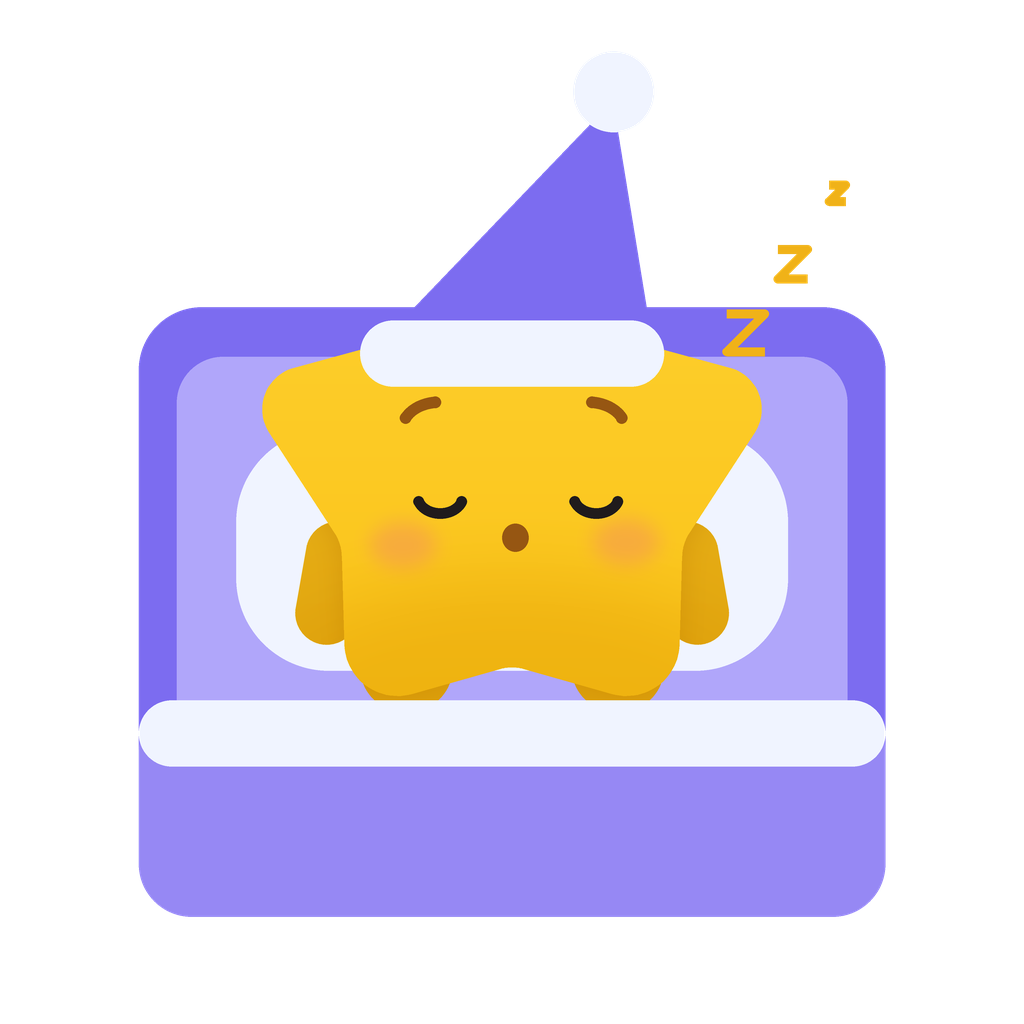
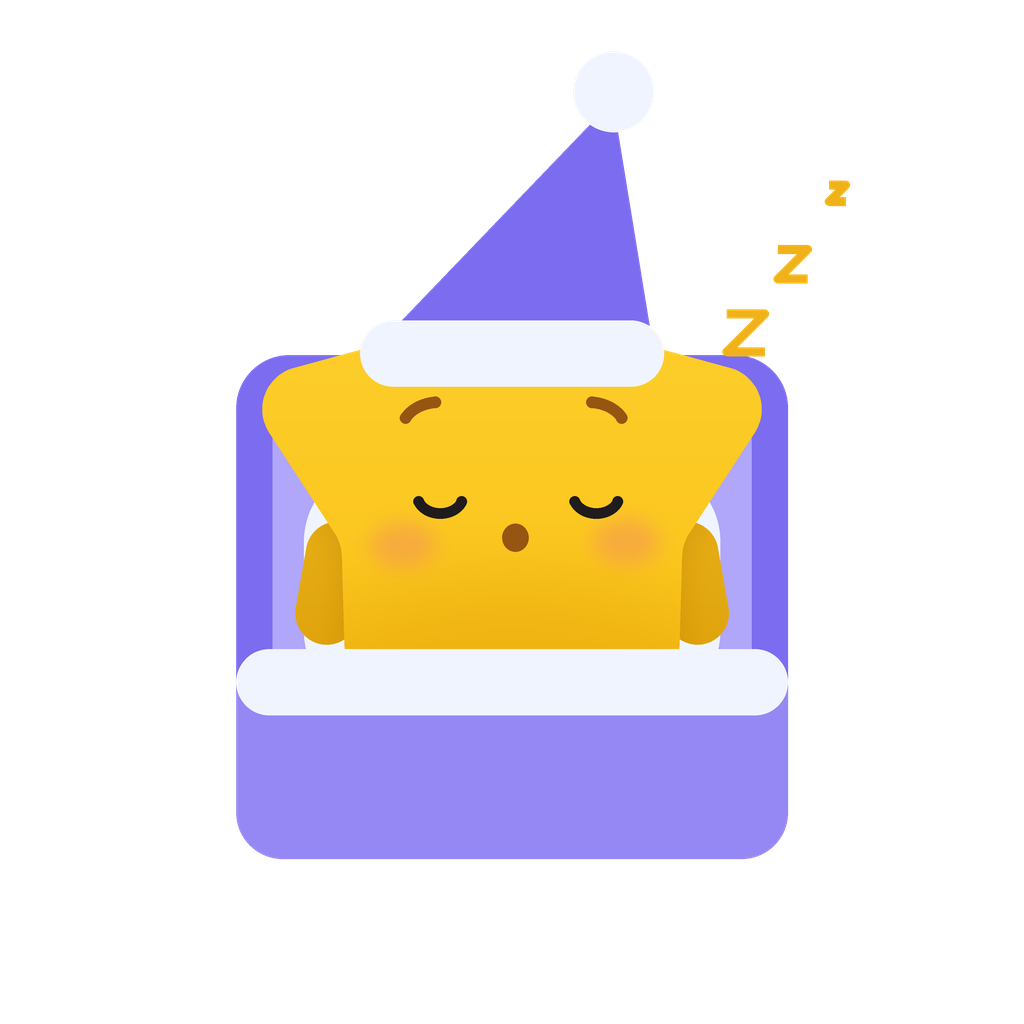
Restore the smaller bed and raise the meditation arms
The widened bed dwarfed the character, so it goes back to the earlier
compact headboard and blanket. Meditation now uses the same raised arm
position as the wave — both sides, without the motion arcs.

Claude-Session: https://claude.ai/code/session_015M4W5mwAC7ThVprora4HqH

Changed region(s): [[0.125, 0.2812, 0.875, 0.9062]]

diff --git a/scenes.py b/scenes.py
@@ -193,11 +193,11 @@ def mat(img):
 def bed(img):
     """Изголовье кровати и подушка за спиной."""
     lay, d = layer(img)
-    d.rounded_rectangle(sbox([168, 372, 1072, 1064]), radius=s(76),
+    d.rounded_rectangle(sbox([286, 430, 954, 1010]), radius=s(64),
                         fill=ACCENT + (255,))
-    d.rounded_rectangle(sbox([214, 432, 1026, 1012]), radius=s(56),
+    d.rounded_rectangle(sbox([330, 486, 910, 966]), radius=s(48),
                         fill=RING + (255,))
-    d.rounded_rectangle(sbox([286, 520, 954, 812]), radius=s(112),
+    d.rounded_rectangle(sbox([368, 560, 872, 860]), radius=s(96),
                         fill=CLOUD + (255,))
     img.alpha_composite(lay)
 
@@ -205,9 +205,9 @@ def bed(img):
 def blanket(img):
     """Одеяло поверх нижней части тела."""
     lay, d = layer(img)
-    d.rounded_rectangle(sbox([168, 848, 1072, 1110]), radius=s(64),
+    d.rounded_rectangle(sbox([286, 786, 954, 1040]), radius=s(56),
                         fill=(150, 136, 244, 255))
-    d.rounded_rectangle(sbox([168, 848, 1072, 928]), radius=s(44),
+    d.rounded_rectangle(sbox([286, 786, 954, 866]), radius=s(40),
                         fill=CLOUD + (255,))
     img.alpha_composite(lay)
 

diff --git a/cute_star.py b/cute_star.py
@@ -240,8 +240,8 @@ POSES = {
     "sit_hold": ("hug", "hug", "sit"),
     # медитация: парит с чуть приподнятыми руками
     "float": ("float", "float", "stand"),
-    # лотос: руки на своих местах (приподняты), скрещённые ноги рисует сцена
-    "lotus": ("float", "float", "none"),
+    # лотос: обе руки подняты как при махании, скрещённые ноги рисует сцена
+    "lotus": ("up", "up", "none"),
 }
 
 
